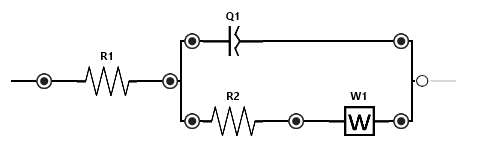
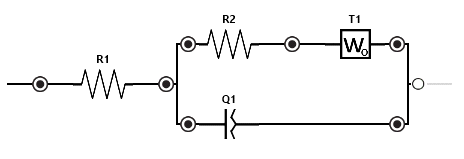
Fix minor mistakes in circuit fitting docs

Changed region(s): [[0.0, 0.0816, 0.9655, 0.9252], [0.7241, 0.6259, 0.7845, 0.6803], [0.2112, 0.3265, 0.2414, 0.4082]]

diff --git a/python/docs/zensical/circuit_fitting.md b/python/docs/zensical/circuit_fitting.md
@@ -151,7 +151,7 @@ measurement = ps.load_session_file('examples/Demo CV DPV EIS IS-C electrode.psse
 
 eis = measurement.eis_data[0]
 
-frequencies = np.array(eis.dataset['Frequency'])
+F = np.array(eis.dataset['Frequency'])
 Zre = np.array(eis.dataset['ZRe'])
 Zim = np.array(eis.dataset['ZIm'])
 
@@ -162,7 +162,7 @@ For example, to fit this circuit model:
 
 ![Diagram of circuit model](assets/impedancepy_circuit.png){ width="80%" }
 
-We can use the circuit description: `'R0-p(R1-W1,CPE1)'`. This is different from the CDC codes used by PalmSens. You can read about [the available elements here](https://impedancepy.readthedocs.io/en/latest/circuit-elements.html).
+We can use the circuit description: `'R0-p(R1-Wo1,CPE1)'`. This is different from the CDC codes used by PalmSens. You can read about [the available elements here](https://impedancepy.readthedocs.io/en/latest/circuit-elements.html).
 
 The example below shows how to fit the circuit model to the data:
 
@@ -171,9 +171,9 @@ import matplotlib.pyplot as plt
 from impedance.models.circuits import CustomCircuit
 from impedance.visualization import plot_nyquist
 
-circuit = 'R0-p(R1-W1,CPE1)'
+circuit = 'R0-p(R1-Wo1,CPE1)'
 
-initial_guess = [1000, 1000, 1000, 0, 1]
+initial_guess = [1000, 1000, 1000, 0.5, 1e-6, 1]
 
 circuit = CustomCircuit(circuit, initial_guess=initial_guess)
 
@@ -191,6 +191,6 @@ plt.legend(['Data', 'Fit'])
 plt.show()
 ```
 
-This results in the plot below:
+This results in the nyquist plot below:
 
 ![Nyquist plot in `impedance.py`](assets/impedancepy_example.png){ width="80%" }
